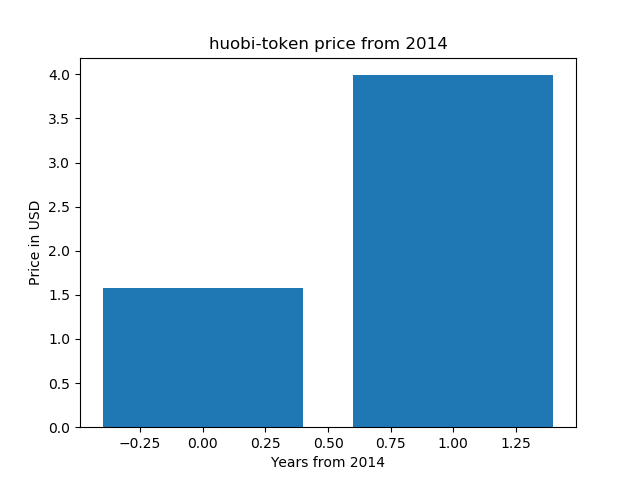
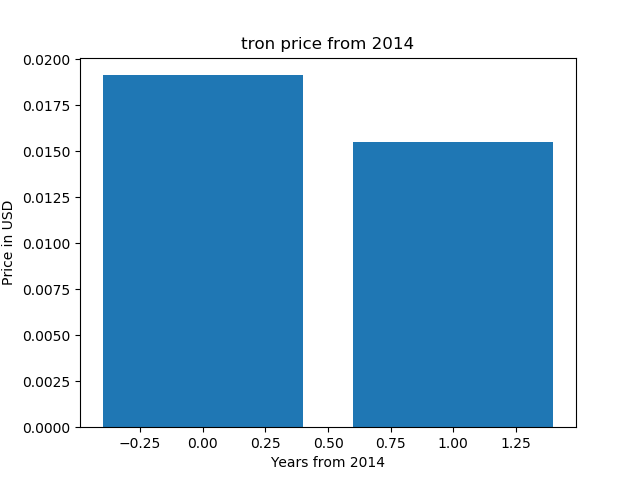
first commit

diff --git a/example.py b/example.py
@@ -10,7 +10,7 @@ from time import gmtime, strftime
 import matplotlib.pyplot as plt
 
 enddate = strftime("%Y%m%d", gmtime())
-r  = requests.get("https://coinmarketcap.com/currencies/huobi-token/historical-data/?start=20140101&end={0}".format(enddate))
+r  = requests.get("https://coinmarketcap.com/currencies/tron/historical-data/?start=20140101&end={0}".format(enddate))
 data = r.text
 
 soup = BeautifulSoup(data, "html.parser")
@@ -44,7 +44,7 @@ print(x)
 
 x = list(range(0, len(prices)))
 
-plt.title('huobi-token price from 2014')
+plt.title('tron price from 2014')
 plt.ylabel('Price in USD')
 plt.xlabel('Years from 2014')
 plt.bar(x, prices)

diff --git a/README.md b/README.md
@@ -1,6 +1,6 @@
-# huobi-token price chart 
+# tron price chart 
 
-huobi-token price chart (matplotlib, python)
+tron price chart (matplotlib, python)
 
 https://pythonprogramminglanguage.com
 
